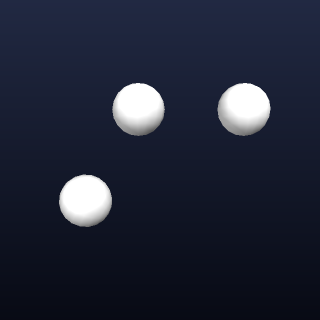
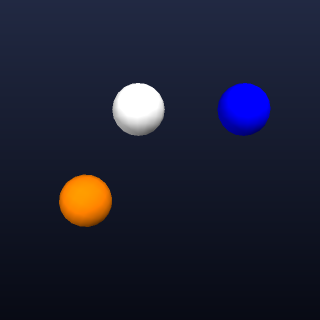
Colour each ball in the part example

Changed region(s): [[0.6562, 0.25, 0.8438, 0.4375], [0.1875, 0.5312, 0.375, 0.7188]]

diff --git a/docs/LANGUAGE.md b/docs/LANGUAGE.md
@@ -749,7 +749,8 @@ symmetric x {
 **A part leaves the turtle where it ended.** A part call doesn't restore the turtle
 ([section 10](#10-parts-and-functions)), so everything after it starts where the part finished.
 Put the call inside a `branch` when it should start from the same place as what comes next. In
-the example, the `branch` keeps the turtle where it was, so `tail` starts from the body:
+the example, the `branch` keeps the turtle where it was, so the blue `tail` starts from the white
+body, not from the orange leg:
 
 <!-- picture: surprise-part view=right -->
 
@@ -757,14 +758,17 @@ the example, the `branch` keeps the turtle where it was, so `tail` starts from t
 part leg {
   pitch 60
   forward 2
+  colour orange
   lay
 }
 
 part tail {
   back 2
+  colour blue
   lay
 }
 
+colour white
 lay // the body
 branch {
   leg
@@ -772,7 +776,7 @@ branch {
 tail
 ```
 
-![Seen from the side: a body, a leg reaching down and forward from it, and a tail behind it](images/surprise-part.png)
+![Seen from the side: a white body, an orange leg reaching down and forward from it, and a blue tail behind it](images/surprise-part.png)
 
 ## 12. Shapes
 
